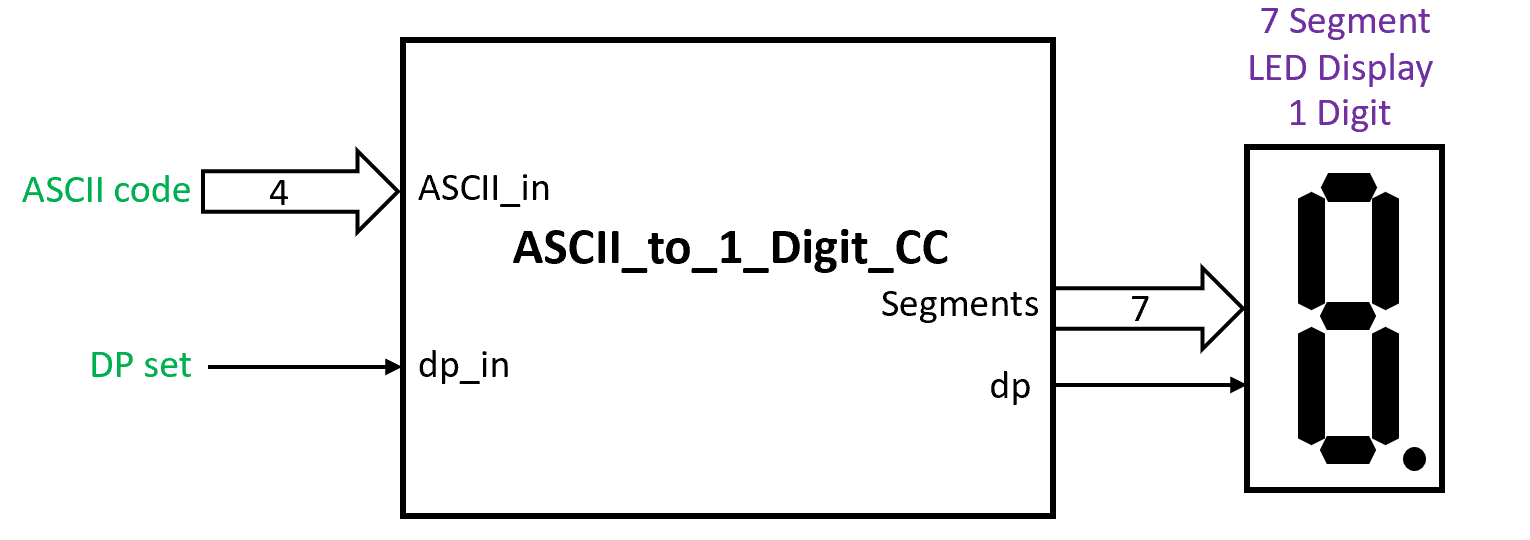
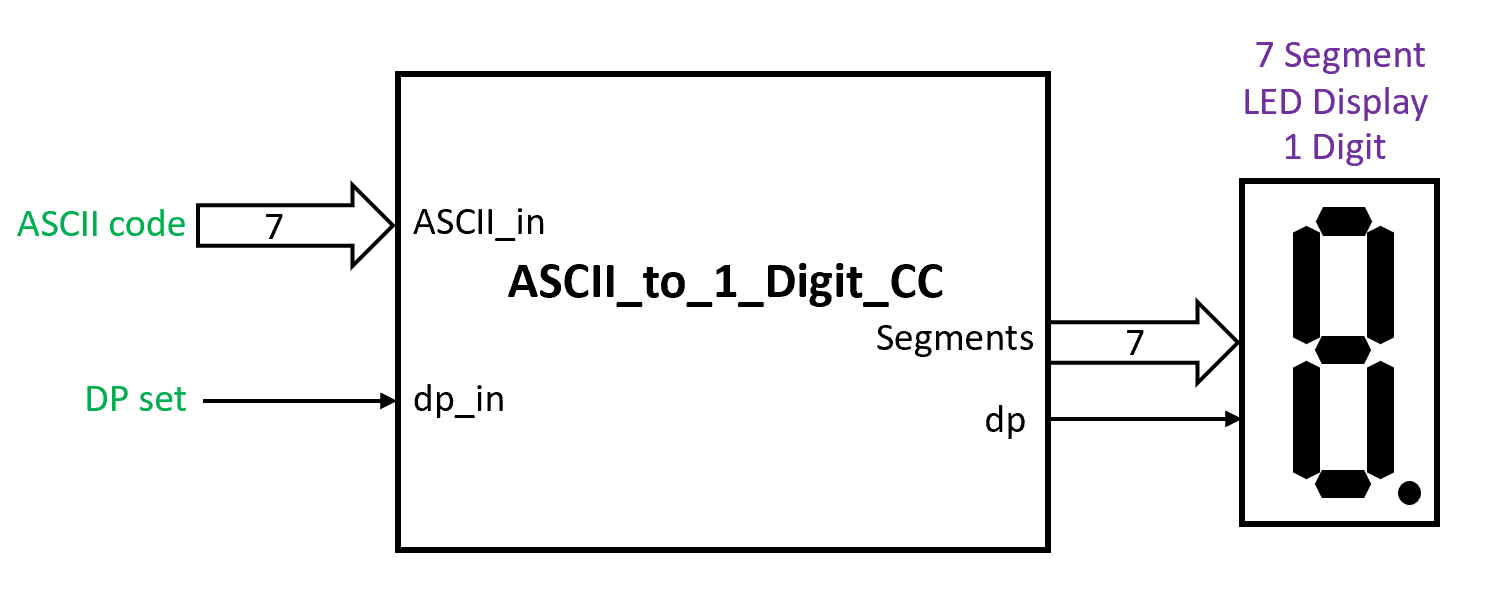
new file:   1_ Digit_Displa_CC/ASCII_to_1_Digit_CC.vhd

Changed region(s): [[0.2488, 0.0, 0.9643, 0.9778], [0.0, 0.2667, 0.3733, 0.4444], [0.0311, 0.6519, 0.3422, 0.7111]]

diff --git a/1_ Digit_Displa_CA/README_1.md b/1_ Digit_Displa_CA/README_1.md
@@ -372,3 +372,13 @@ The module implemented in the FPGA is shown in figure 22 and consists of an ASCI
 
 ![ Figure 22 ](/Pictures/Figure22.png)
 
+The module has:
+- 7 input pins for data where the binary code is presented = ASCII_in;
+- 1 input pin for control of the Decimal Point = dp_in;
+- 7 output pins for controlling the segments from a to g of the 7 Segment display = Segments;
+- 1 output pin for controlling the Decimal Point of the 7 Segment display = dp;
+
+The source code for the FPGA program of this module written in the VHDL language is as follows:
+
+https://github.com/LincaMarius/FPGA_7_Segment_Display_Driver/blob/main/1_%20Digit_Displa_CC/ASCII_to_1_Digit_CC.vhd
+
